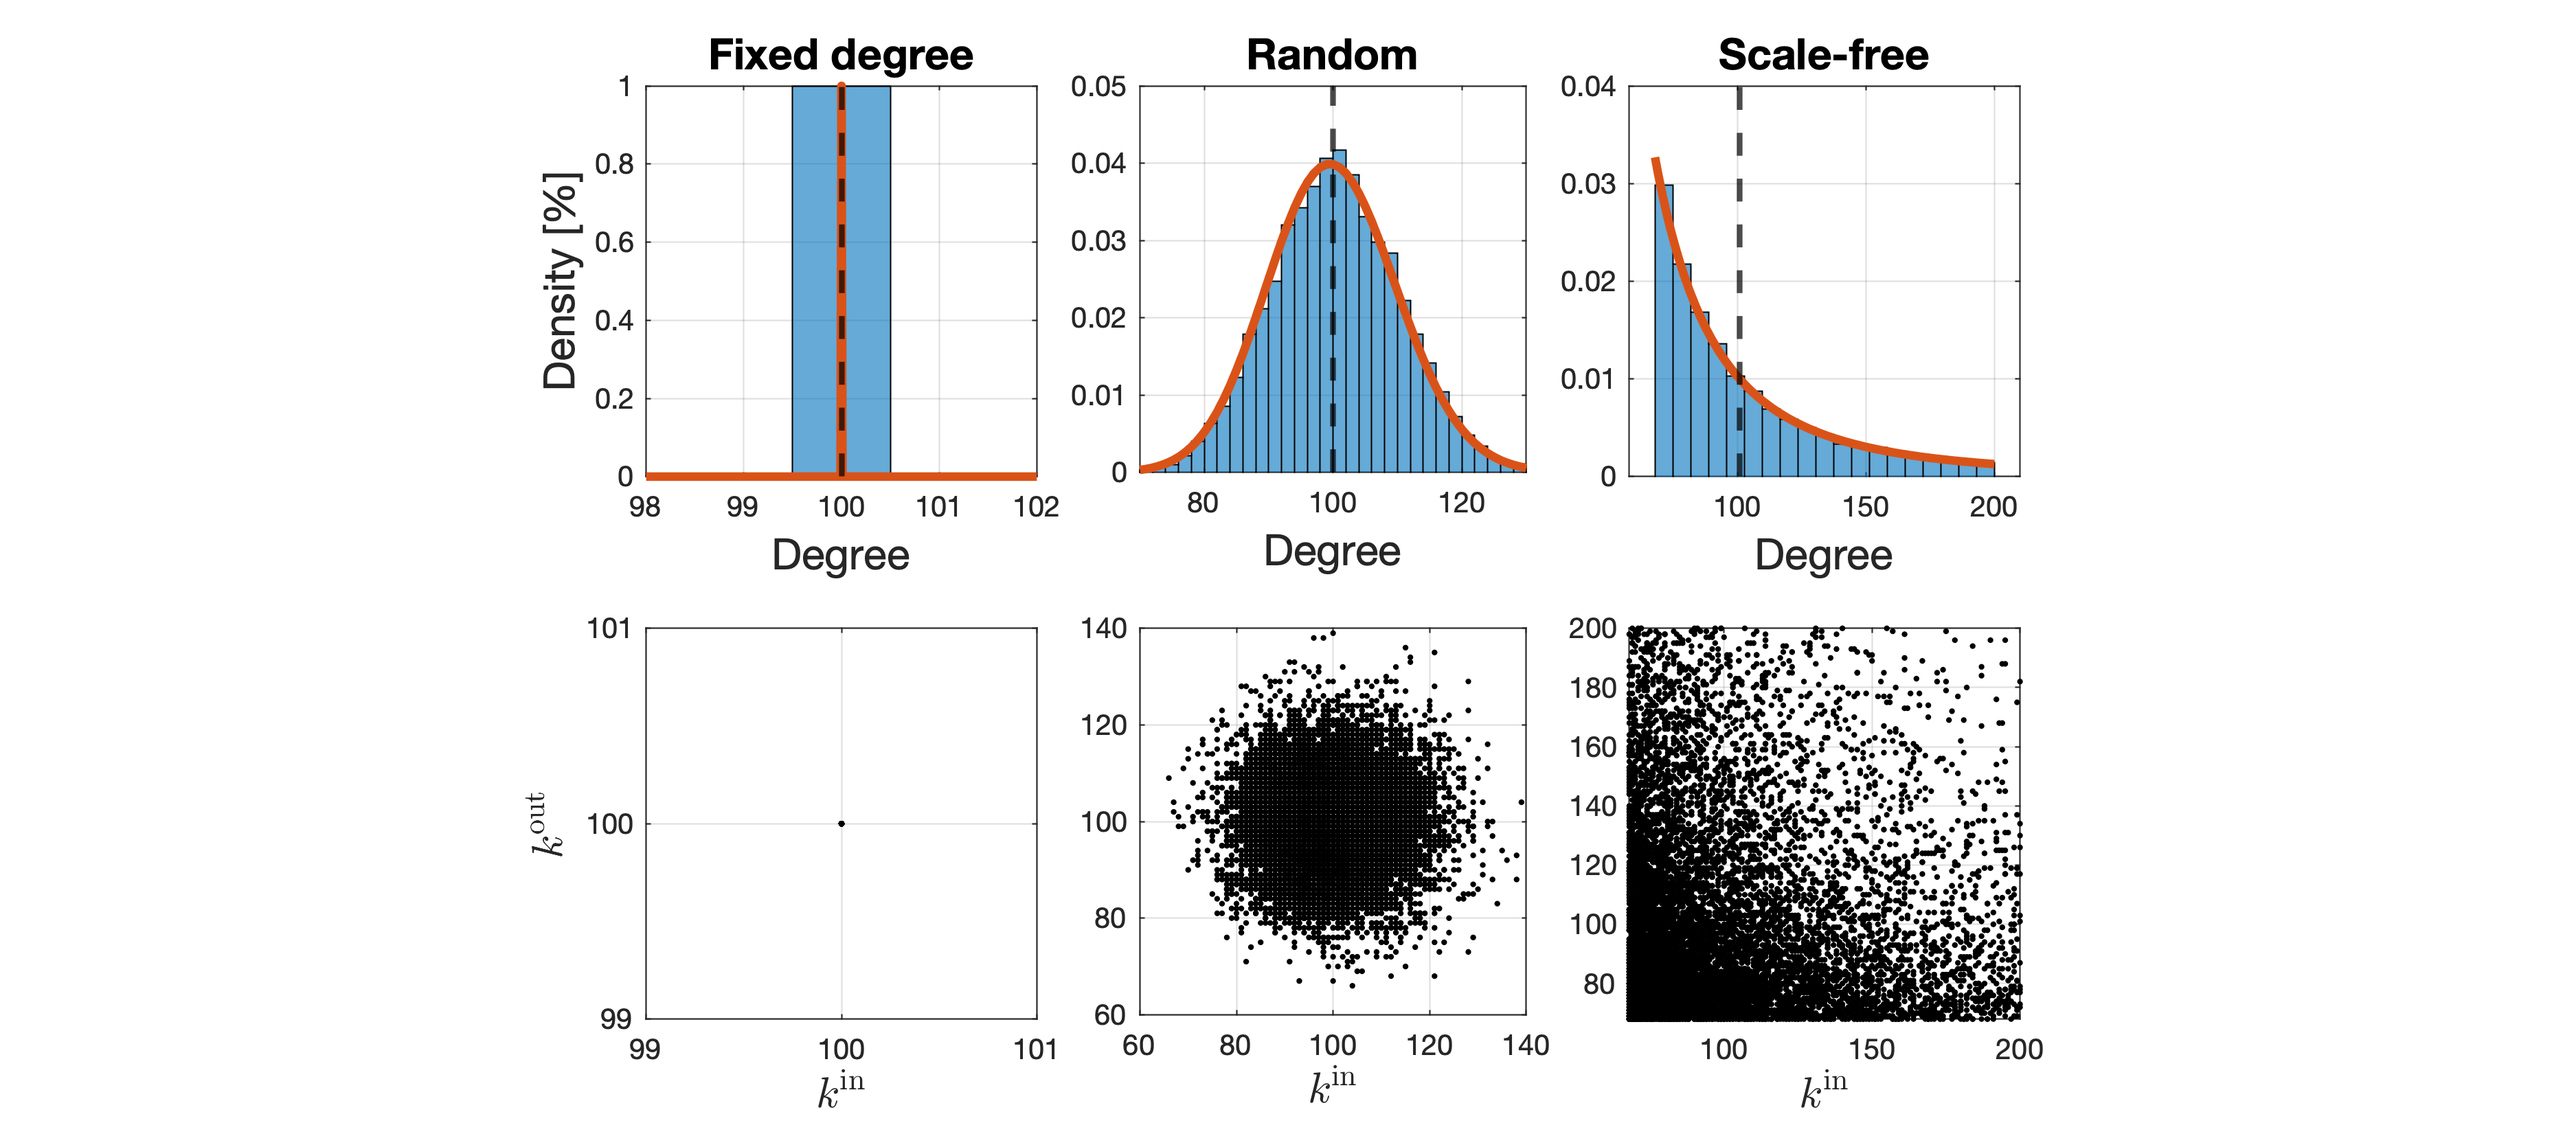
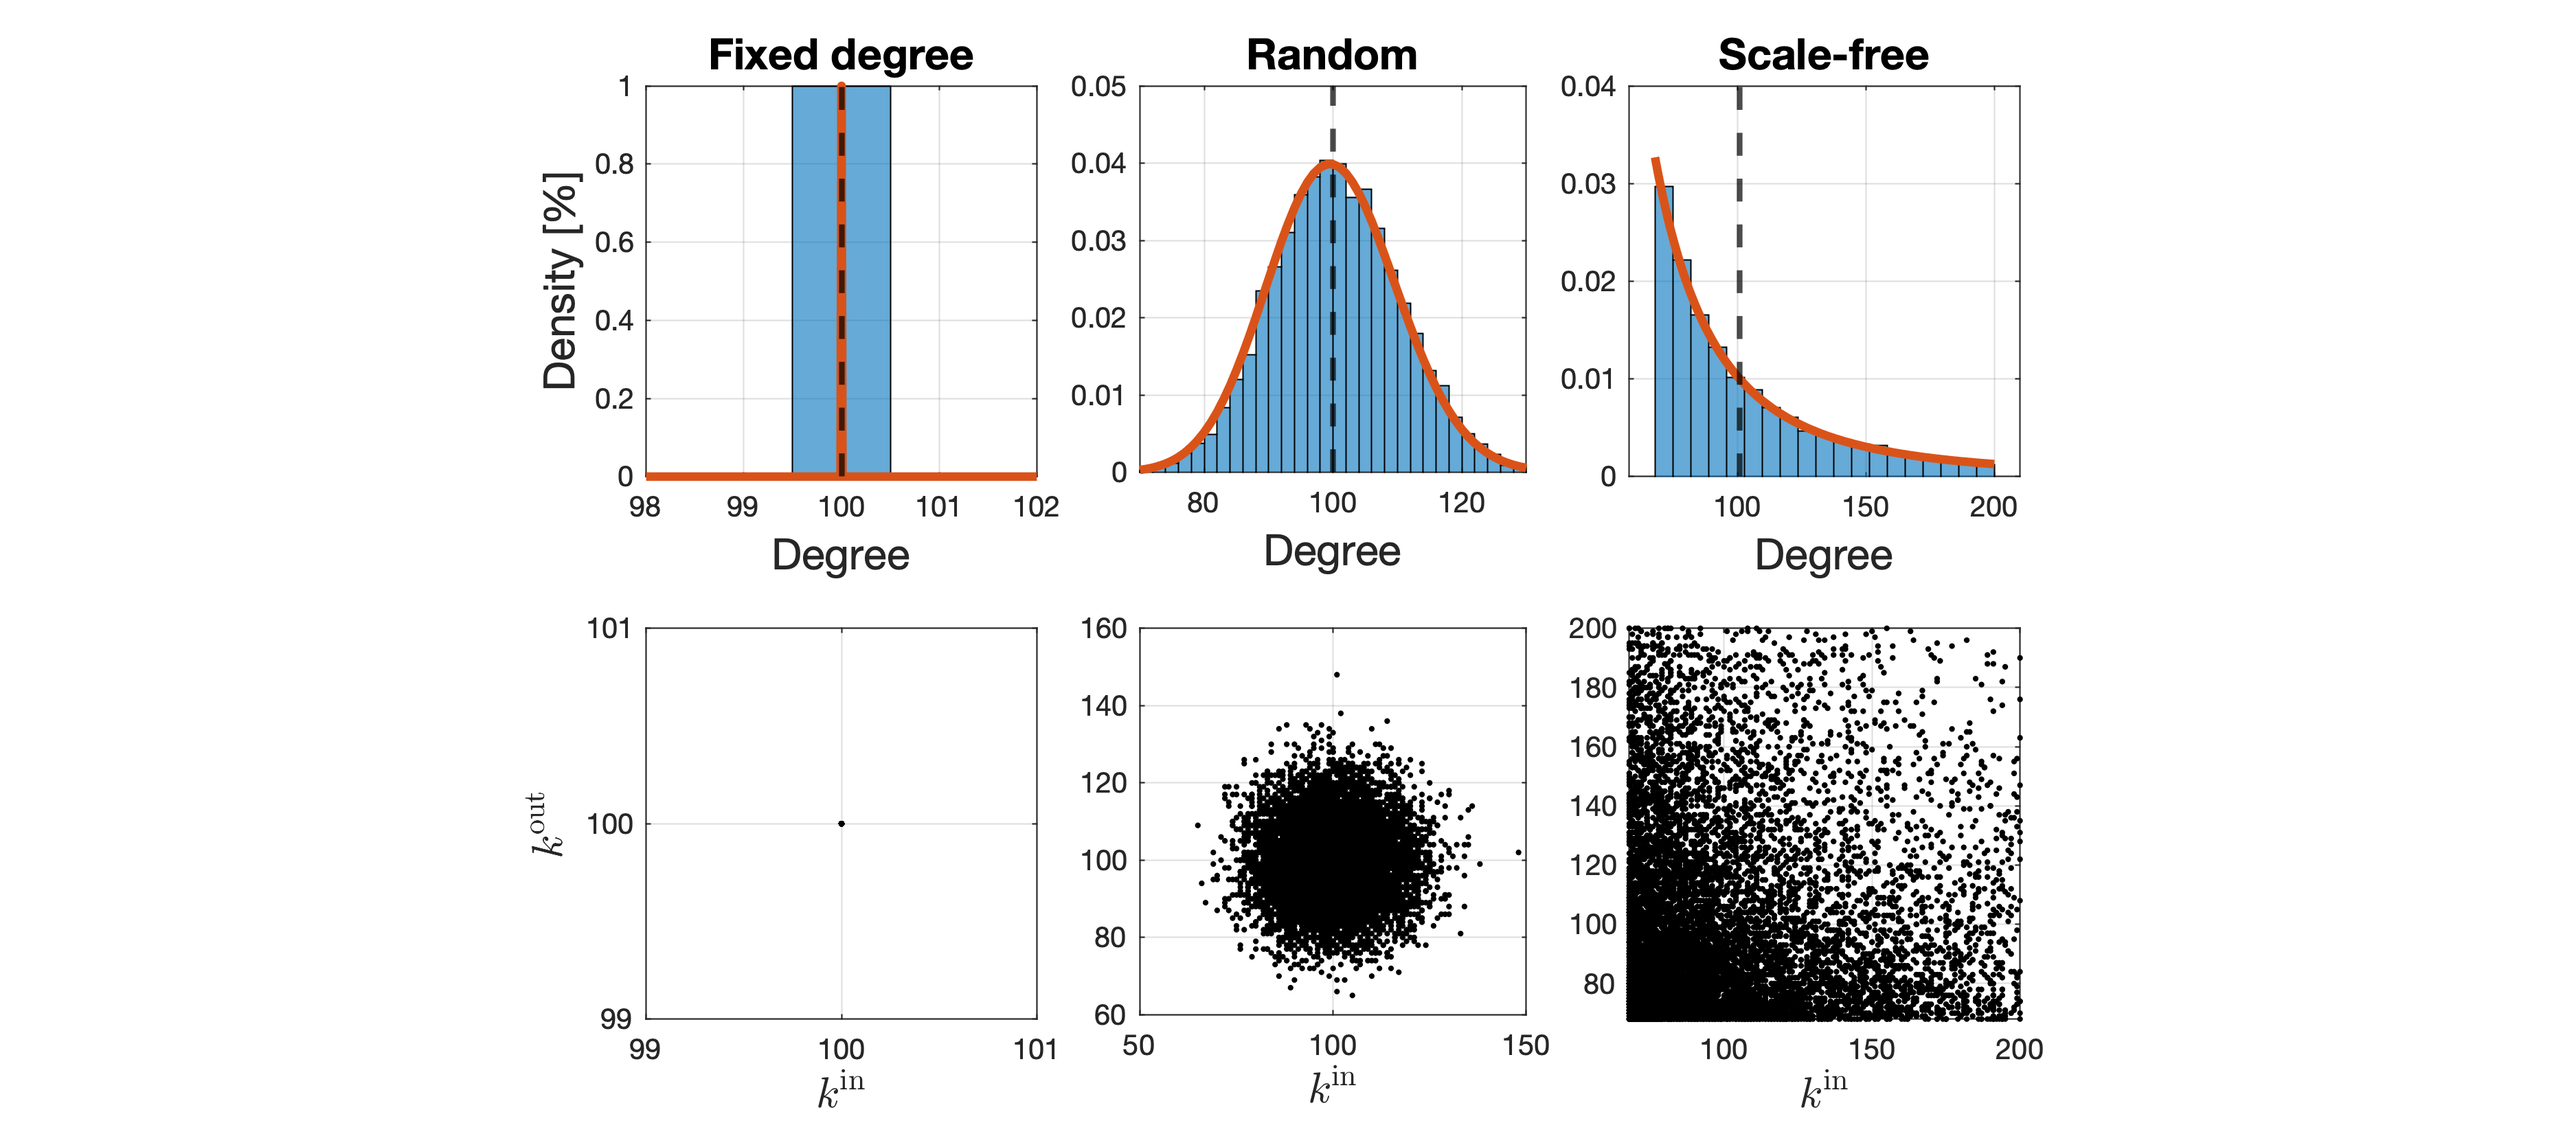
added plots for the discussion about the 2D plots

diff --git a/Tests/networkdistributions.m b/Tests/networkdistributions.m
@@ -104,9 +104,12 @@ pos = plt.Position; plt.Position = [pos(1) + 0.09, pos(2), pos(3), pos(4)];
 
 %% Produce 1D figure
 print(f_1Dpdfs, '../Figures/Distributions/1D.png', '-dpng', '-r300')
-
+close(f_1Dpdfs)
 
 %% Now the 2D pdfs:
+%Figure handle
+f_2Dpdfs = figure('Renderer', 'painters', 'Position', [50 800 900 400]); box on; hold on;
+
 %% A 2D fixed degree network / diracnet
 fixeddegreepars = make_fixeddegreeparameters(pars, meandegreetoget);
 
@@ -115,100 +118,122 @@ fixeddegreepars.P2D = @(x,y) fixeddegreepars.P(x) .* fixeddegreepars.P(y) / pars
 if sum(fixeddegreepars.P2D(1:pars.N, 1:pars.N), 'all') == pars.N; disp('Sum is correct'); end
 
 %%
-figure; hold on; grid on;
+subplot(1,3,1); hold on; grid on; box on;
 title('Fixed degree', 'FontSize', titlefont);
 xlabel('\boldmath$k^{\rm in}$', 'Interpreter', 'latex', 'FontSize', labelfont);
 ylabel('\boldmath$k^{\rm out}$', 'Interpreter', 'latex', 'FontSize', labelfont);
 zlabel('Density', 'FontSize', labelfont, 'HorizontalAlignment', 'left');
-view(110, 20)
+view(110, 10)
+
+lo = meandegreetoget - 5;
+hi = meandegreetoget + 5;
 
 % The 3D histogram
-minmax = linspace(meandegreetoget - 10, meandegreetoget + 10, 20);
+minmax = linspace(lo, hi, hi - lo);
 xlim([minmax(1), minmax(end)])
 ylim([minmax(1), minmax(end)])
 hist = histogram2(fixeddegreepars.degrees_i, fixeddegreepars.degrees_o, minmax, minmax, 'Normalization', 'pdf','ShowEmptyBins','on'); % Normal degree vectors from before
 hist.FaceAlpha = 0.75;
+colormap(jet)
 
 % The pdf
 plot3([meandegreetoget, meandegreetoget], [meandegreetoget, meandegreetoget], [0, max(hist.Values, [], 'all')], 'k', 'LineWidth', 2)
-
-% % A value of zero-surface
-% [x,y] = meshgrid(minmax(1):minmax(end),minmax(1):minmax(end));
-% surf(x,y,zeros(size(x)),'FaceAlpha',0.5,'EdgeColor','none');
+colormap(jet)
 
 % The 2D scatter plot underneath
-scatter3(fixeddegreepars.degrees_i, fixeddegreepars.degrees_o, -ones(1, pars.N), 200, '.k');
+binwidth = hist.XBinEdges(2) - hist.XBinEdges(1);
+binsvalues = zeros(numel(minmax), numel(minmax));
+binsvalues(1:numel(minmax)-1, 1:numel(minmax)-1) = hist.Values;
+h = pcolor(minmax,minmax,binsvalues);
+h.ZData = -0.5*max(binsvalues, [], 'all')*ones(size(binsvalues));
+
 ax = gca;
 ax.ZTick(ax.ZTick < 0) = [];
-
+colormap(jet)
 
 %% A 2D random network:
 randompars = make_randomparameters(pars, meandegreetoget/(pars.N - 1));
 
 randompars.P2D = @(x,y) randompars.P(x) .* randompars.P(y) / pars.N;
+Pnorm = randompars.P2D(1:pars.N,1:pars.N);
+% randompars.P2D = @(x,y) randompars.P2D(x,y)/sum(Pnorm, 'all');
 
-if sum(randompars.P2D(1:pars.N, 1:pars.N), 'all') == pars.N; disp('Sum is correct'); end
+if sum(randompars.P2D(1:pars.N, 1:pars.N), 'all') - pars.N < 1.e-3; disp('Sum is correct'); end
 
 %%
-figure; hold on; grid on;
+subplot(1,3,2); hold on; grid on; box on;
 title('Random', 'FontSize', titlefont);
 xlabel('\boldmath$k^{\rm in}$', 'Interpreter', 'latex', 'FontSize', labelfont);
 ylabel('\boldmath$k^{\rm out}$', 'Interpreter', 'latex', 'FontSize', labelfont);
-zlabel('Density', 'FontSize', labelfont, 'HorizontalAlignment', 'left');
+% zlabel('Density', 'FontSize', labelfont, 'HorizontalAlignment', 'left');
 view(110, 20)
 
 % The 3D histogram
 minmax = linspace(randompars.meandegree - 3*sqrt(randompars.meandegree), randompars.meandegree + 3*sqrt(randompars.meandegree), 16);
 xlim([minmax(1), minmax(end)])
 ylim([minmax(1), minmax(end)])
-hist = histogram2(randompars.degrees_i, randompars.degrees_o, minmax, minmax, 'Normalization', 'pdf', 'FaceAlpha',1,'ShowEmptyBins','on'); % Normal degree vectors from before
+hist = histogram2(randompars.degrees_i, randompars.degrees_o, minmax, minmax, 'Normalization', 'pdf','EdgeColor','none','FaceAlpha',1,'ShowEmptyBins','on'); % Normal degree vectors from before
+colormap(jet)
 
 % The pdf
 vec = linspace(minmax(1), minmax(end), minmax(end) - minmax(1) + 1);
 [x,y] = meshgrid(vec, vec);
 idx = round(linspace(1, numel(vec), 25));
 surf(x(idx,idx),y(idx,idx),randompars.P2D(x(idx,idx),y(idx,idx))/pars.N,'FaceAlpha',0.5,'EdgeColor','none');
+colormap(jet)
 
 % The 2D scatter plot underneath
-midvalues = 0.5 * (minmax(1:end-1) + minmax(2:end));
-h = pcolor(midvalues,midvalues,hist.Values);
-h.ZData = -max(hist.Values, [], 'all')*ones(size(hist.Values));
+binwidth = hist.XBinEdges(2) - hist.XBinEdges(1);
+binsvalues = zeros(numel(minmax), numel(minmax));
+binsvalues(1:numel(minmax)-1, 1:numel(minmax)-1) = hist.Values;
+h = pcolor(minmax,minmax,binsvalues);
+h.ZData = -0.5*max(binsvalues, [], 'all')*ones(size(binsvalues));
 
 ax = gca;
 ax.ZTick(ax.ZTick < 0) = [];
-
+colormap(jet)
 
 %% A 2D scalefree network 
 scalefreepars = make_scalefreeparameters(pars, 3);
 
 scalefreepars.P2D = @(x,y) P2D(x, y, scalefreepars.kmin, scalefreepars.kmax, scalefreepars.degree, scalefreepars.N)/pars.N;
 
-if sum(scalefreepars.P2D(1:pars.N, 1:pars.N), 'all') == pars.N; disp('Sum is correct'); end
+if sum(scalefreepars.P2D(scalefreepars.kmin:scalefreepars.kmax,scalefreepars.kmin:scalefreepars.kmax), 'all') - pars.N < 1.e-3; disp('Sum is correct'); end
+
 %%
-figure; hold on; grid on;
+subplot(1,3,3); hold on; grid on; box on;
+% figure; hold on; box on;
 title('Scale-free', 'FontSize', titlefont);
 xlabel('\boldmath$k^{\rm in}$', 'Interpreter', 'latex', 'FontSize', labelfont);
 ylabel('\boldmath$k^{\rm out}$', 'Interpreter', 'latex', 'FontSize', labelfont);
-zlabel('Density', 'FontSize', labelfont, 'HorizontalAlignment', 'left');
-view(110, 20)
+% zlabel('Density', 'FontSize', labelfont, 'HorizontalAlignment', 'left');
+view(110, 10)
+
 
 % The 3D histogram
 minmax = linspace(scalefreepars.kmin, scalefreepars.kmax, 16);
 hist = histogram2(scalefreepars.degrees_i, scalefreepars.degrees_o, minmax, minmax, 'Normalization', 'pdf'); % Normal degree vectors from before
 xlim([minmax(1), minmax(end)])
 ylim([minmax(1), minmax(end)])
+colormap(jet)
 
 % The pdf
-minmax = linspace(scalefreepars.kmin, scalefreepars.kmax, scalefreepars.kmax-scalefreepars.kmin+1);
+minmaxpdf = linspace(scalefreepars.kmin, scalefreepars.kmax, scalefreepars.kmax-scalefreepars.kmin+1);
 [x,y] = meshgrid(minmax, minmax);
 idx = round(linspace(1, numel(minmax), 25));
 surf(x(idx,idx),y(idx,idx),scalefreepars.P2D(x(idx,idx),y(idx,idx)),'FaceAlpha',0.5,'EdgeColor','none');
+colormap(jet)
 
 % The 2D scatter plot underneath
-scatter3(scalefreepars.degrees_i, scalefreepars.degrees_o, -ones(1, pars.N), 150, '.k');
-h = imagesc(xl,yl,N_pcolor);
+binwidth = hist.XBinEdges(2) - hist.XBinEdges(1);
+binsvalues = zeros(numel(minmax), numel(minmax));
+binsvalues(1:numel(minmax)-1, 1:numel(minmax)-1) = hist.Values;
+h = pcolor(minmax,minmax,binsvalues);
+h.ZData = -0.5*max(binsvalues, [], 'all')*ones(size(binsvalues));
+
 ax = gca;
 ax.ZTick(ax.ZTick < 0) = [];
+colormap(jet)
 
 %% Produce 2D figure
 print(f_2Dpdfs, '../Figures/Distributions/2D.png', '-dpng', '-r300')
